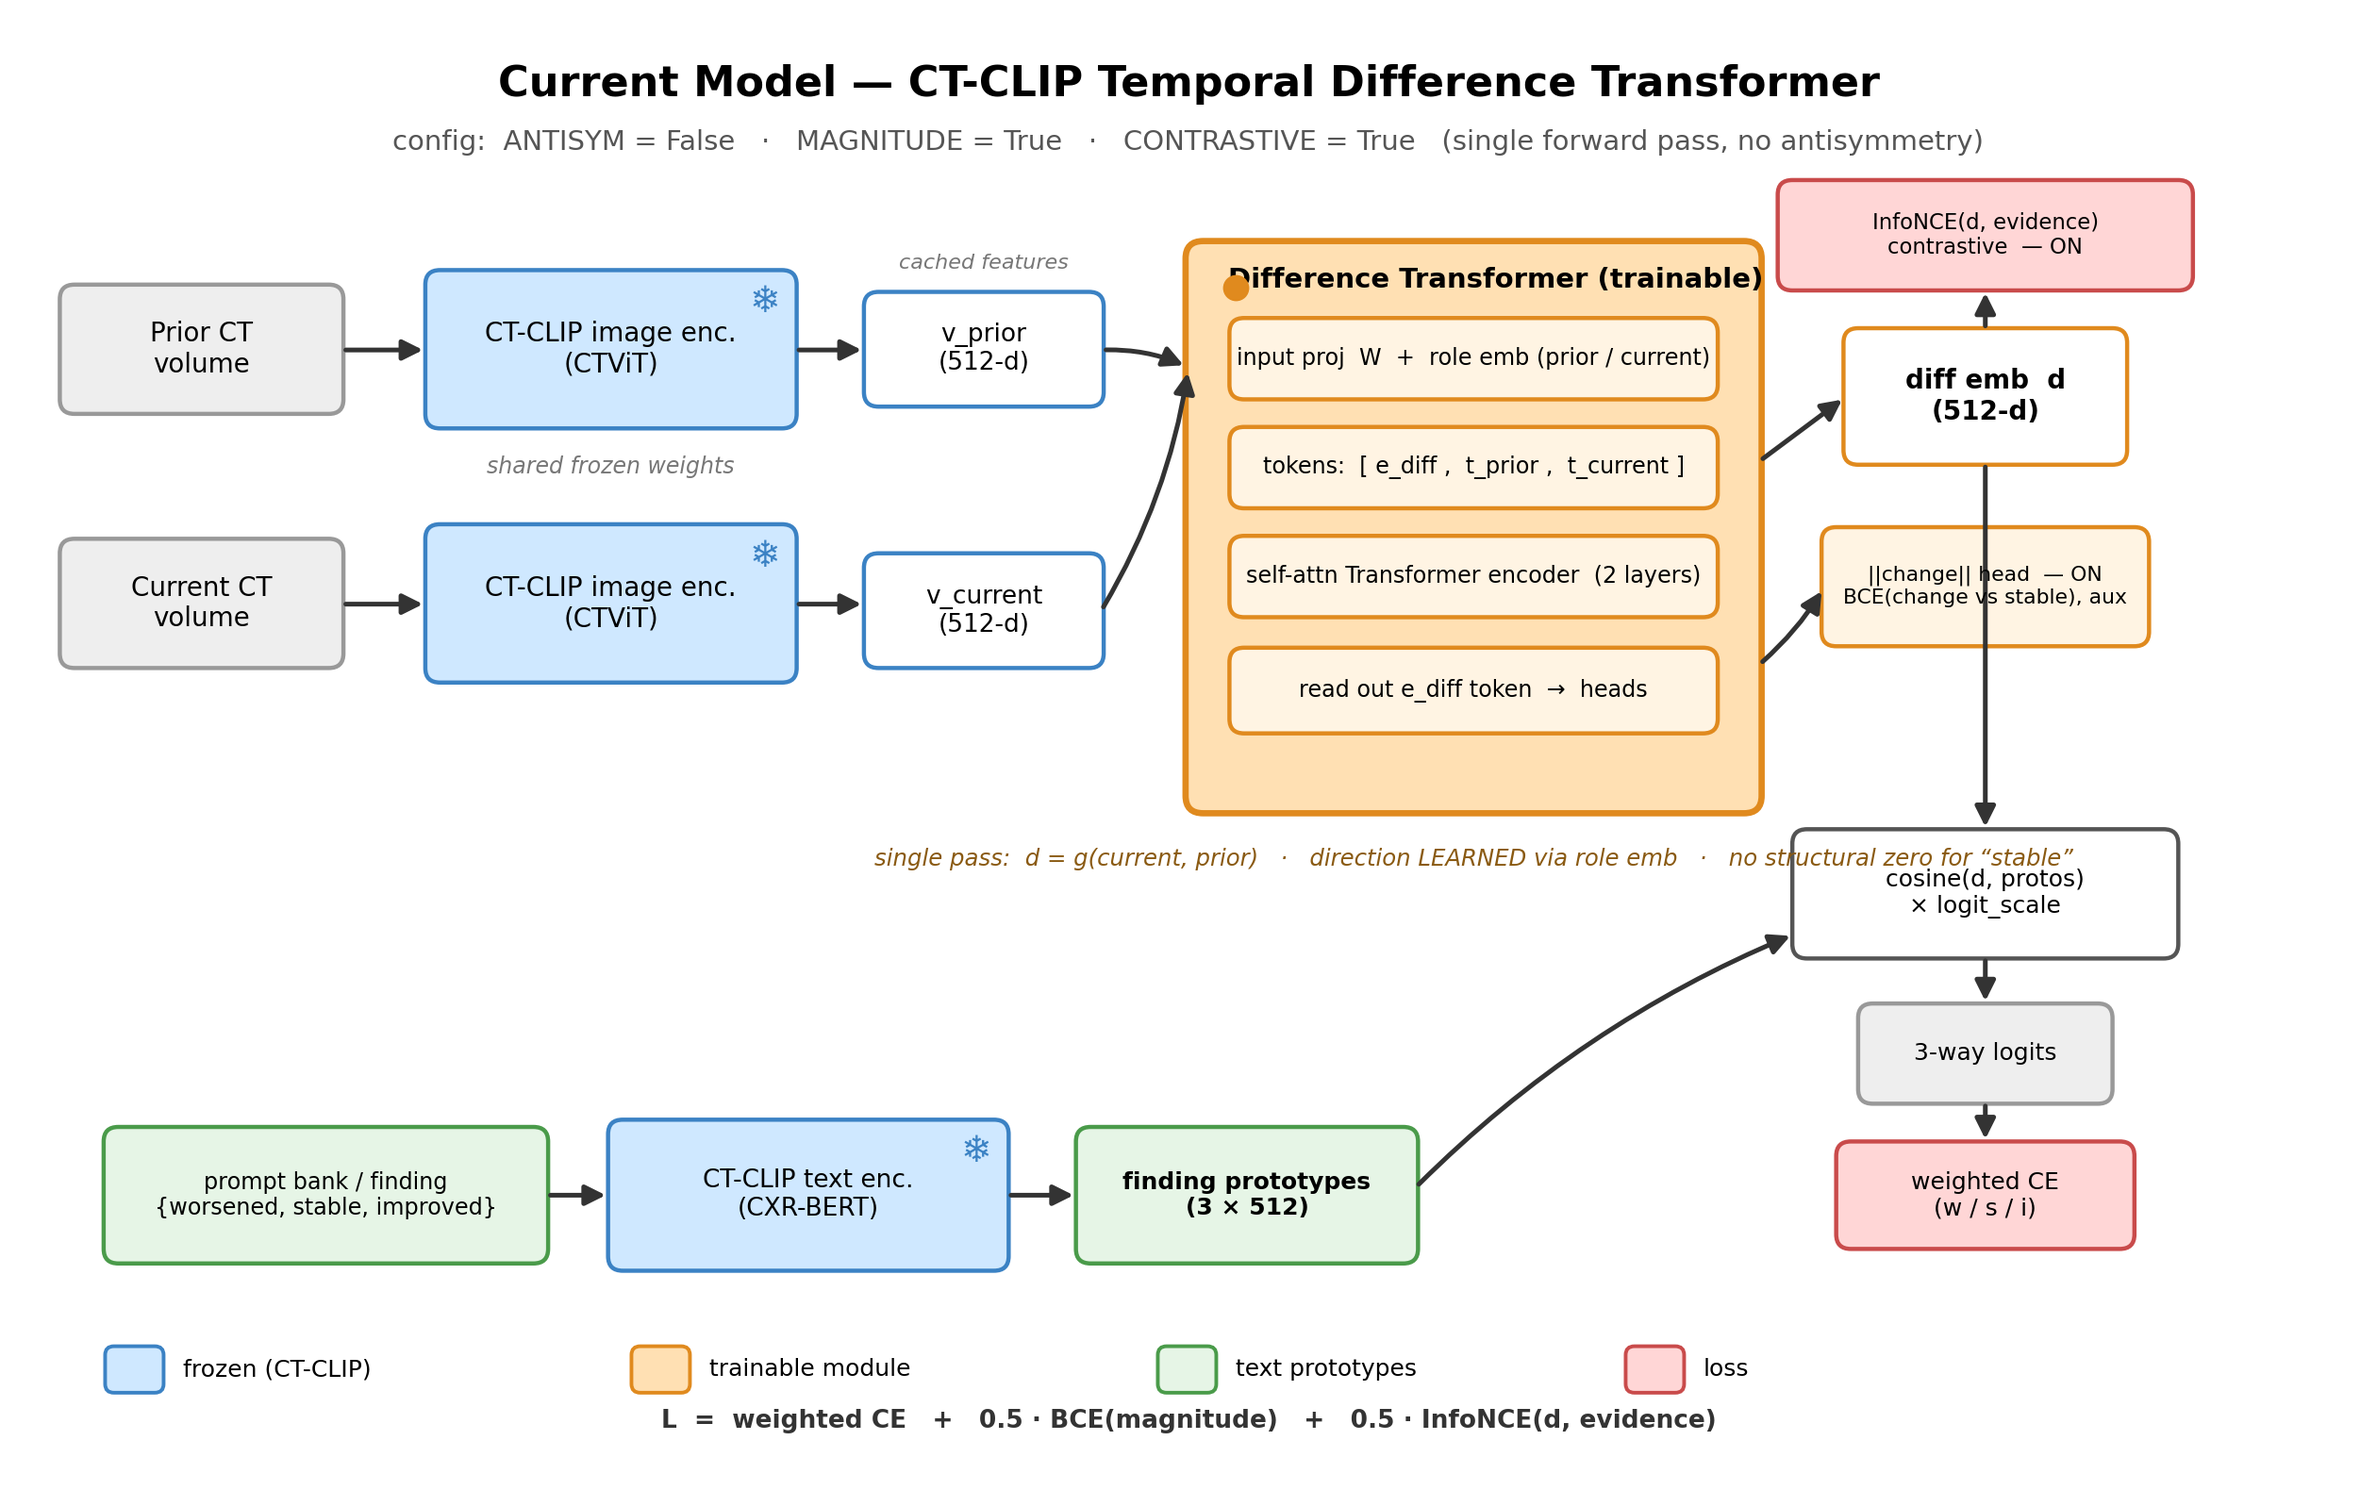
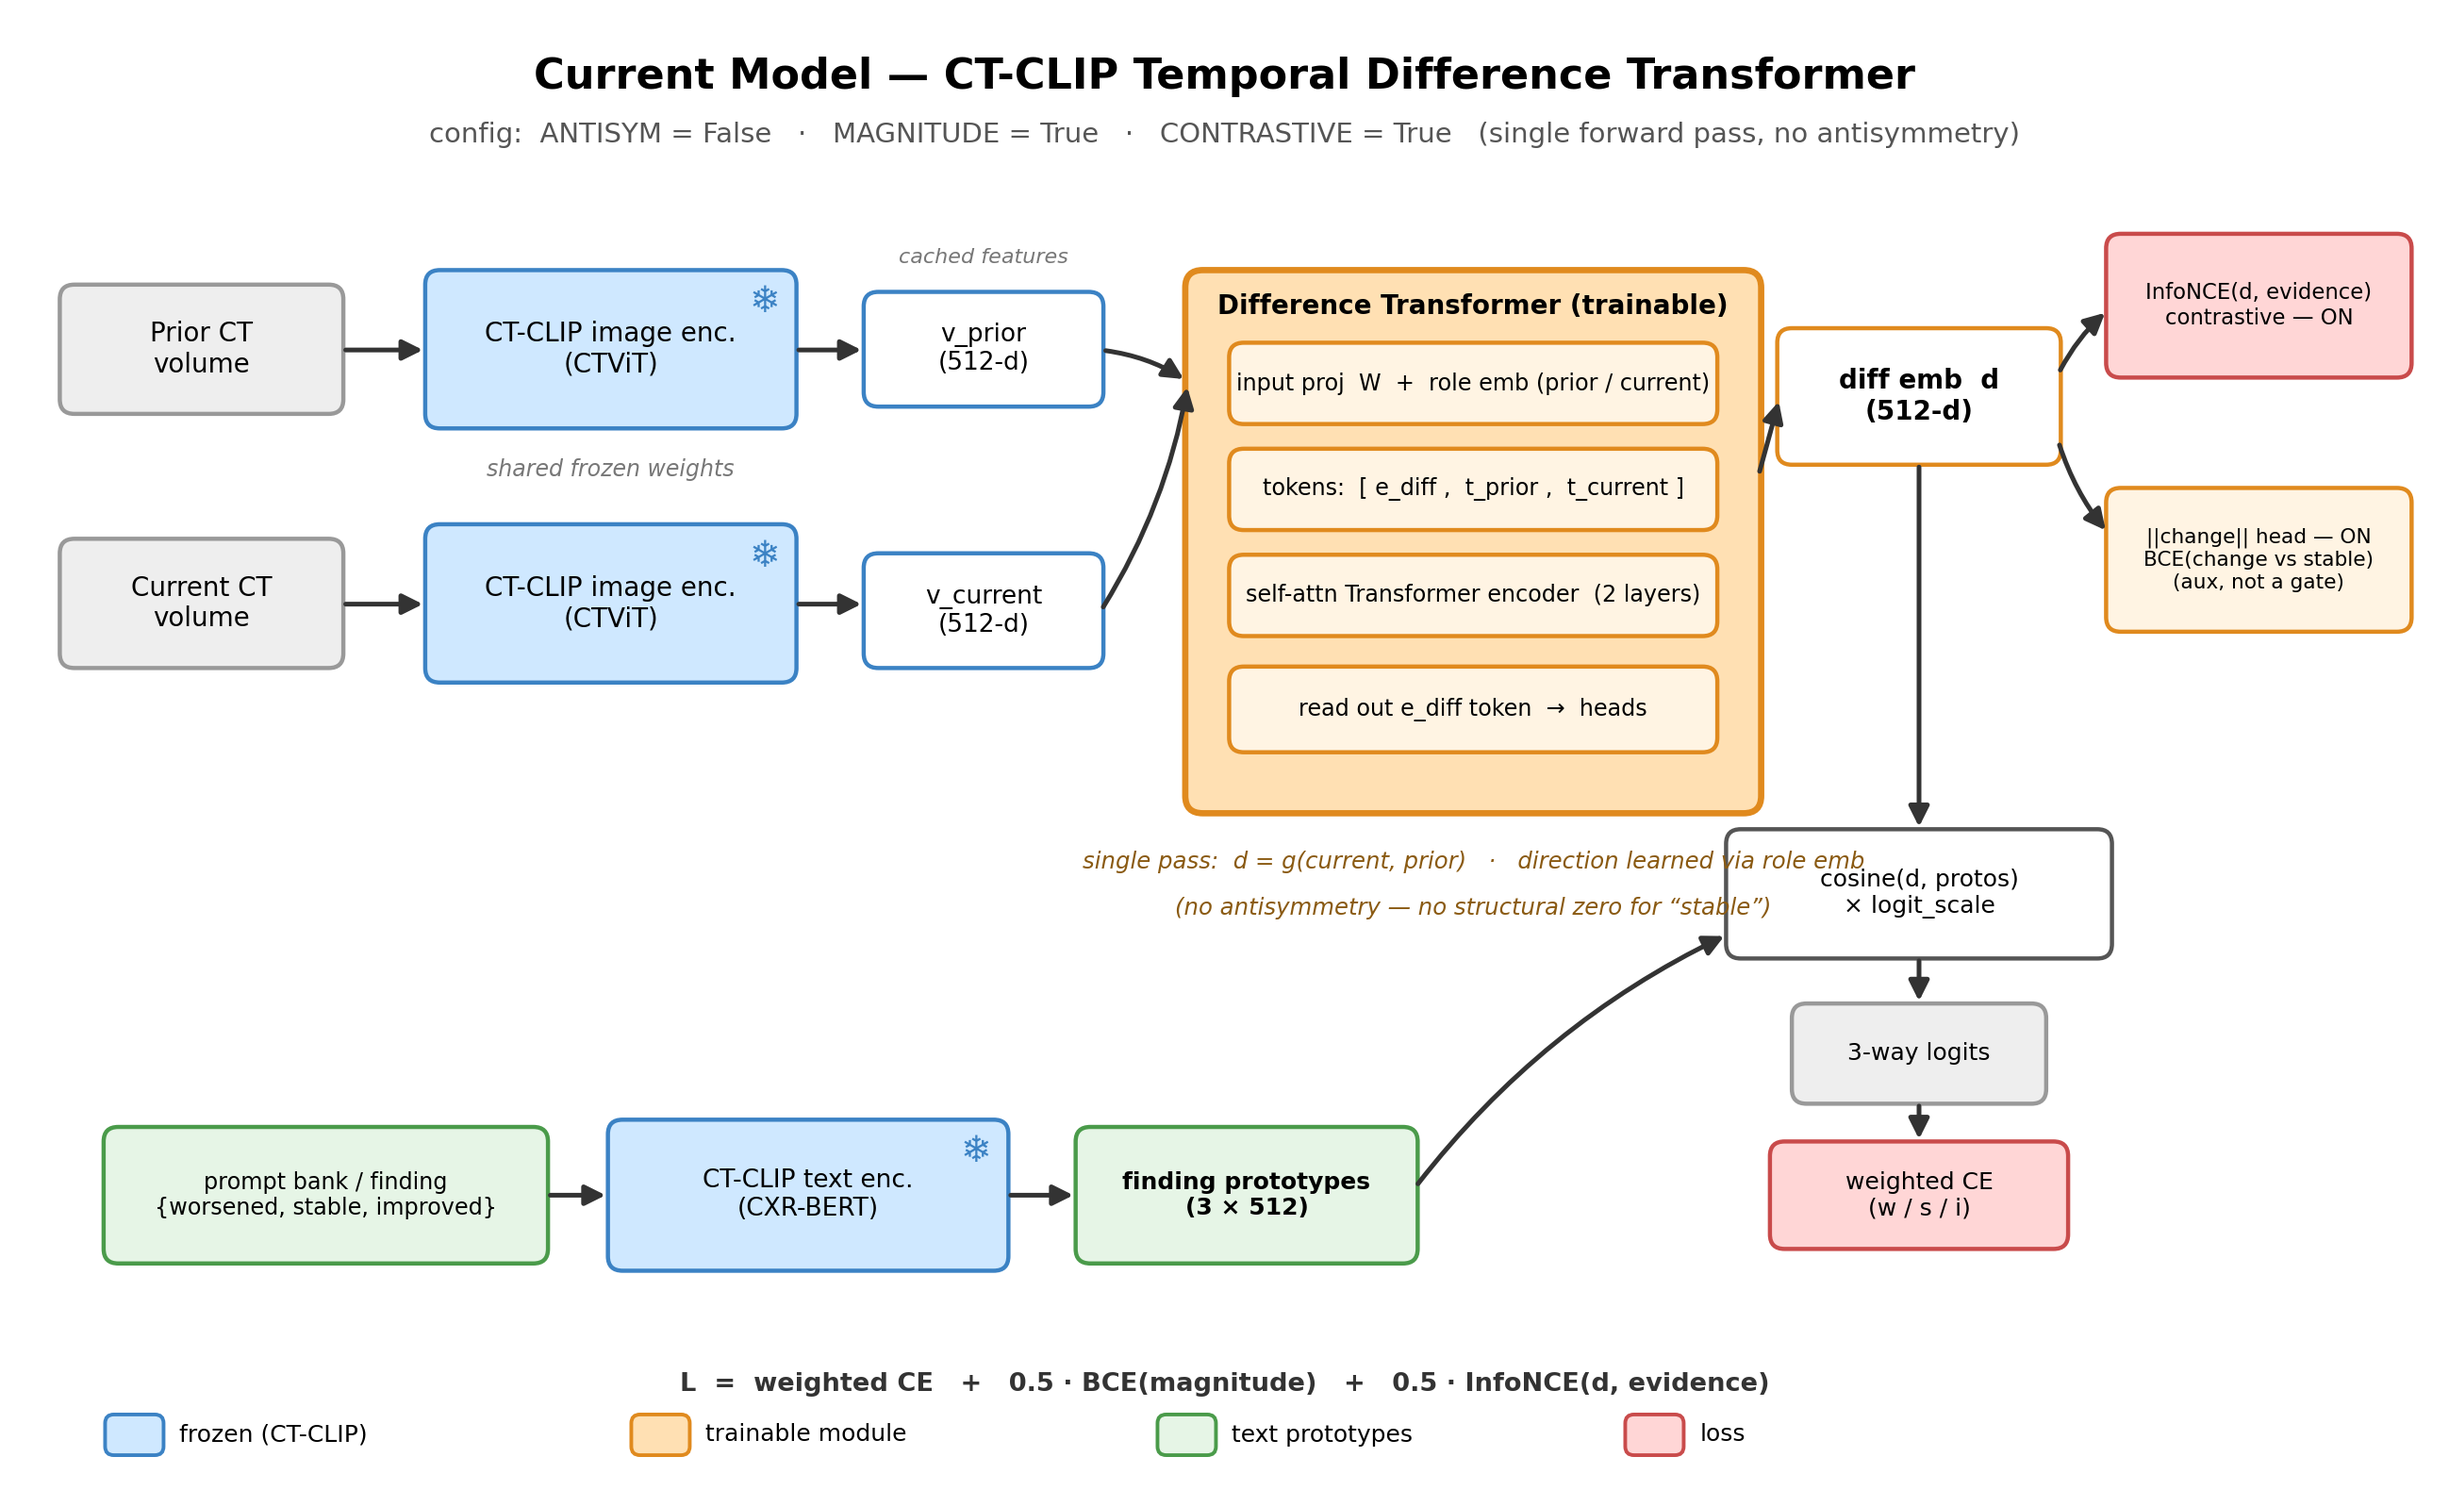
docs: de-overlap current-model diagram (straight CE column, aux heads offset right, two-line no-antisym note)

diff --git a/scripts/make_current_model_diagram.py b/scripts/make_current_model_diagram.py
@@ -9,6 +9,7 @@ Difference from make_improved_frozen_diagram.py:
     "stable").
   - magnitude head and contrastive term are shown as ON (this run's config), not optional.
 
+Layout is spaced so no text/arrows overlap.
 Output: docs/current_model.png
 """
 import os
@@ -25,8 +26,8 @@ LOSS,   LOSS_E   = "#ffd6d6", "#c94b4b"     # losses (red)
 GREY,   GREY_E   = "#eeeeee", "#999999"
 INNER            = "#fff4e3"                  # inner sub-box fill
 
-fig, ax = plt.subplots(figsize=(16, 10))
-ax.set_xlim(0, 16)
+fig, ax = plt.subplots(figsize=(16.5, 10))
+ax.set_xlim(0, 16.5)
 ax.set_ylim(0, 10)
 ax.axis("off")
 
@@ -49,10 +50,10 @@ def snow(x, y):
 
 
 # ================= TITLE =================
-ax.text(8, 9.55, "Current Model \u2014 CT-CLIP Temporal Difference Transformer",
+ax.text(8.25, 9.6, "Current Model \u2014 CT-CLIP Temporal Difference Transformer",
         ha="center", va="center", fontsize=16, fontweight="bold")
-ax.text(8, 9.15, "config:  ANTISYM = False   \u00b7   MAGNITUDE = True   \u00b7   CONTRASTIVE = True   "
-                 "(single forward pass, no antisymmetry)",
+ax.text(8.25, 9.2, "config:  ANTISYM = False   \u00b7   MAGNITUDE = True   \u00b7   CONTRASTIVE = True   "
+                   "(single forward pass, no antisymmetry)",
         ha="center", va="center", fontsize=10.5, color="#555555")
 
 # ================= TOP FLOW: inputs -> frozen enc -> pooled -> diff module =================
@@ -65,7 +66,7 @@ box(2.8, 7.20, 2.5, 1.05, "CT-CLIP image enc.\n(CTViT)", FROZEN, FROZEN_E, fs=10
 snow(5.10, 8.05)
 box(2.8, 5.45, 2.5, 1.05, "CT-CLIP image enc.\n(CTViT)", FROZEN, FROZEN_E, fs=10)
 snow(5.10, 6.30)
-ax.text(4.05, 6.87, "shared frozen weights", ha="center", fontsize=8.5,
+ax.text(4.05, 6.85, "shared frozen weights", ha="center", fontsize=8.5,
         style="italic", color="#777")
 arrow((2.2, 7.72), (2.8, 7.72))
 arrow((2.2, 5.97), (2.8, 5.97))
@@ -73,53 +74,56 @@ arrow((2.2, 5.97), (2.8, 5.97))
 # --- pooled vectors (cached) ---
 box(5.8, 7.35, 1.6, 0.75, "v_prior\n(512-d)", "#ffffff", FROZEN_E, fs=9.5)
 box(5.8, 5.55, 1.6, 0.75, "v_current\n(512-d)", "#ffffff", FROZEN_E, fs=9.5)
-ax.text(6.6, 8.28, "cached features", ha="center", fontsize=8, style="italic", color="#777")
+ax.text(6.6, 8.32, "cached features", ha="center", fontsize=8, style="italic", color="#777")
 arrow((5.3, 7.72), (5.8, 7.72))
 arrow((5.3, 5.97), (5.8, 5.97))
 
 # --- trainable Difference Transformer (big box) ---
-TX, TY, TW, TH = 8.0, 4.55, 3.9, 3.9
+TX, TY, TW, TH = 8.0, 4.55, 3.9, 3.7
 ax.add_patch(FancyBboxPatch((TX, TY), TW, TH,
              boxstyle="round,pad=0.02,rounding_size=0.12",
              linewidth=2.4, edgecolor=TRAIN_E, facecolor=TRAIN))
-ax.plot([TX + 0.32], [TY + TH - 0.30], marker="o", markersize=9, color=TRAIN_E, zorder=6)
-ax.text(TX + TW / 2 + 0.15, TY + TH - 0.30, "Difference Transformer (trainable)",
-        ha="center", fontsize=10.5, fontweight="bold")
+# title bar centered (no marker dot to avoid overlap)
+ax.text(TX + TW / 2, TY + TH - 0.28, "Difference Transformer (trainable)",
+        ha="center", fontsize=10, fontweight="bold")
 
 ix, iw = TX + 0.30, TW - 0.60
-box(ix, TY + 2.85, iw, 0.52, "input proj  W  +  role emb (prior / current)", INNER, TRAIN_E, fs=8.6)
-box(ix, TY + 2.10, iw, 0.52, "tokens:  [ e_diff ,  t_prior ,  t_current ]", INNER, TRAIN_E, fs=8.6)
-box(ix, TY + 1.35, iw, 0.52, "self-attn Transformer encoder  (2 layers)", INNER, TRAIN_E, fs=8.6)
-box(ix, TY + 0.55, iw, 0.55, "read out e_diff token  \u2192  heads", INNER, TRAIN_E, fs=8.6)
+box(ix, TY + 2.68, iw, 0.52, "input proj  W  +  role emb (prior / current)", INNER, TRAIN_E, fs=8.6)
+box(ix, TY + 1.95, iw, 0.52, "tokens:  [ e_diff ,  t_prior ,  t_current ]", INNER, TRAIN_E, fs=8.6)
+box(ix, TY + 1.22, iw, 0.52, "self-attn Transformer encoder  (2 layers)", INNER, TRAIN_E, fs=8.6)
+box(ix, TY + 0.42, iw, 0.55, "read out e_diff token  \u2192  heads", INNER, TRAIN_E, fs=8.6)
 
-arrow((7.4, 7.72), (TX, TY + TH - 0.85), rad=-0.12)
-arrow((7.4, 5.92), (TX, TY + TH - 0.85), rad=0.10)
+arrow((7.4, 7.72), (TX, TY + TH - 0.75), rad=-0.12)
+arrow((7.4, 5.92), (TX, TY + TH - 0.75), rad=0.10)
 
-# NO-antisymmetry note (below the box, clear of everything)
-ax.text(TX + TW / 2, TY - 0.38,
-        "single pass:  d = g(current, prior)   \u00b7   direction LEARNED via role emb   "
-        "\u00b7   no structural zero for \u201cstable\u201d",
+# NO-antisymmetry note (well below the box, on its own line)
+ax.text(TX + TW / 2, TY - 0.40,
+        "single pass:  d = g(current, prior)   \u00b7   direction learned via role emb",
+        ha="center", fontsize=8.8, style="italic", color="#8a5a12")
+ax.text(TX + TW / 2, TY - 0.72,
+        "(no antisymmetry \u2014 no structural zero for \u201cstable\u201d)",
         ha="center", fontsize=8.8, style="italic", color="#8a5a12")
 
-# ================= RIGHT: diff emb d, magnitude, contrastive =================
-box(12.5, 6.95, 1.9, 0.9, "diff emb  d\n(512-d)", "#ffffff", TRAIN_E, fs=10, bold=True)
-arrow((TX + TW, TY + 2.4), (12.5, 7.40))
+# ================= RIGHT: diff emb d (center), aux heads offset further right =================
+# diff emb d  (CE column center x = 13.0)
+box(12.05, 6.95, 1.9, 0.9, "diff emb  d\n(512-d)", "#ffffff", TRAIN_E, fs=10, bold=True)
+arrow((TX + TW, TY + 2.3), (12.05, 7.40))
 
-# contrastive (above d) -- ON in this config
-box(12.05, 8.15, 2.8, 0.72, "InfoNCE(d, evidence)\ncontrastive  \u2014 ON", LOSS, LOSS_E, fs=8.2)
-arrow((13.45, 7.85), (13.45, 8.15))
+# --- CE column straight down under d (x = 13.0) ---
+box(11.70, 3.55, 2.6, 0.85, "cosine(d, protos)\n\u00d7 logit_scale", "#ffffff", "#555555", fs=9)
+arrow((13.00, 6.95), (13.00, 4.40))                     # d -> cosine (clear of aux heads)
+box(12.15, 2.55, 1.7, 0.65, "3-way logits", GREY, GREY_E, fs=9)
+arrow((13.00, 3.55), (13.00, 3.20))
+box(12.00, 1.55, 2.0, 0.70, "weighted CE\n(w / s / i)", LOSS, LOSS_E, fs=9)
+arrow((13.00, 2.55), (13.00, 2.25))
 
-# magnitude head (below d) -- ON in this config (aux loss only, not a decision gate)
-box(12.35, 5.70, 2.2, 0.78, "||change|| head  \u2014 ON\nBCE(change vs stable), aux", INNER, TRAIN_E, fs=7.9)
-arrow((TX + TW, TY + 1.0), (12.35, 6.09), rad=0.08)
-
-# ================= SUPERVISION: cosine -> logits -> CE (vertical under d) =================
-box(12.15, 3.55, 2.6, 0.85, "cosine(d, protos)\n\u00d7 logit_scale", "#ffffff", "#555555", fs=9)
-arrow((13.45, 6.95), (13.45, 4.40))                     # d down into cosine
-box(12.6, 2.55, 1.7, 0.65, "3-way logits", GREY, GREY_E, fs=9)
-arrow((13.45, 3.55), (13.45, 3.20))
-box(12.45, 1.55, 2.0, 0.70, "weighted CE\n(w / s / i)", LOSS, LOSS_E, fs=9)
-arrow((13.45, 2.55), (13.45, 2.25))
+# --- aux heads offset to the right so nothing overlaps the CE column ---
+# contrastive (upper-right)
+box(14.30, 7.55, 2.05, 0.95, "InfoNCE(d, evidence)\ncontrastive \u2014 ON", LOSS, LOSS_E, fs=8.2)
+arrow((13.95, 7.55), (14.30, 8.00), rad=-0.10)          # d -> contrastive
+# magnitude head (lower-right)
+box(14.30, 5.80, 2.05, 0.95, "||change|| head \u2014 ON\nBCE(change vs stable)\n(aux, not a gate)", INNER, TRAIN_E, fs=7.8)
+arrow((13.95, 7.10), (14.30, 6.45), rad=0.10)           # d -> magnitude
 
 # ================= TEXT PATH (bottom-left) -> prototypes -> cosine =================
 box(0.6, 1.45, 3.0, 0.90, "prompt bank / finding\n{worsened, stable, improved}", TEXT, TEXT_E, fs=8.6)
@@ -128,18 +132,18 @@ snow(6.55, 2.20)
 box(7.25, 1.45, 2.3, 0.90, "finding prototypes\n(3 \u00d7 512)", TEXT, TEXT_E, fs=9, bold=True)
 arrow((3.6, 1.90), (4.05, 1.90))
 arrow((6.75, 1.90), (7.25, 1.90))
-arrow((9.55, 1.95), (12.15, 3.70), rad=-0.10)           # prototypes -> cosine
+arrow((9.55, 1.95), (11.70, 3.70), rad=-0.12)           # prototypes -> cosine (left edge)
 
-# ================= LOSS SUMMARY =================
-ax.text(8.0, 0.30, "L  =  weighted CE   +   0.5 \u00b7 BCE(magnitude)   +   0.5 \u00b7 InfoNCE(d, evidence)",
-        ha="center", fontsize=9.5, color="#333", fontweight="bold")
+# ================= LOSS SUMMARY (own line, bottom) =================
+ax.text(8.25, 0.55, "L  =  weighted CE   +   0.5 \u00b7 BCE(magnitude)   +   0.5 \u00b7 InfoNCE(d, evidence)",
+        ha="center", fontsize=9.8, color="#333", fontweight="bold")
 
 # ================= LEGEND (very bottom row) =================
-ly = 0.55
+ly = 0.12
 def legend(x, fc, ec, label):
-    ax.add_patch(FancyBboxPatch((x, ly), 0.38, 0.30, boxstyle="round,pad=0.01,rounding_size=0.06",
+    ax.add_patch(FancyBboxPatch((x, ly), 0.38, 0.26, boxstyle="round,pad=0.01,rounding_size=0.06",
                  linewidth=1.4, edgecolor=ec, facecolor=fc))
-    ax.text(x + 0.52, ly + 0.15, label, fontsize=9, va="center")
+    ax.text(x + 0.50, ly + 0.13, label, fontsize=9, va="center")
 legend(0.6, FROZEN, FROZEN_E, "frozen (CT-CLIP)")
 legend(4.2, TRAIN, TRAIN_E, "trainable module")
 legend(7.8, TEXT, TEXT_E, "text prototypes")
